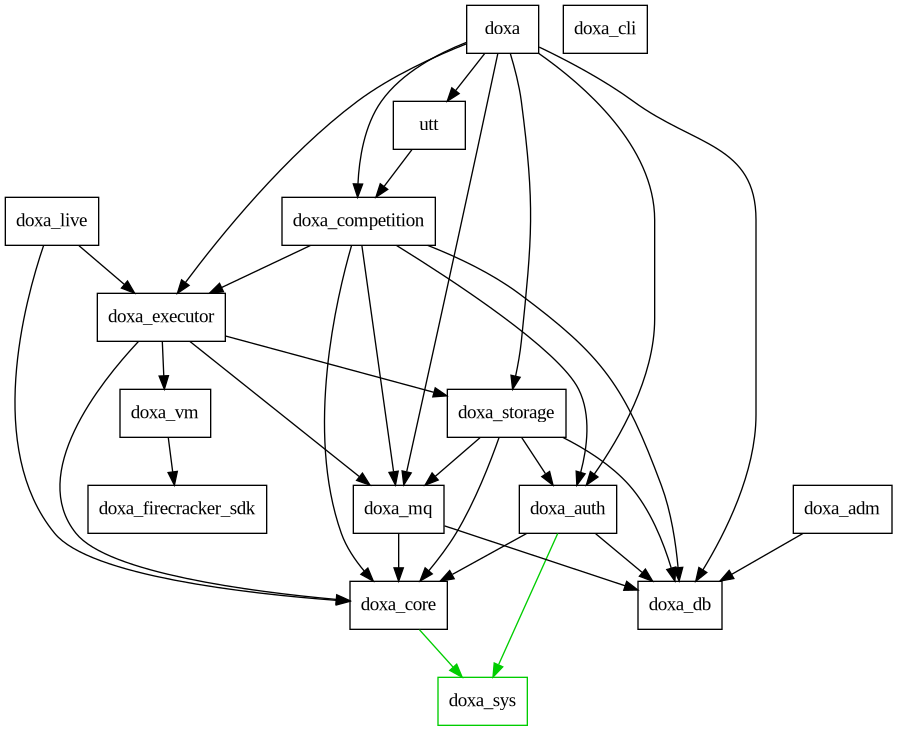
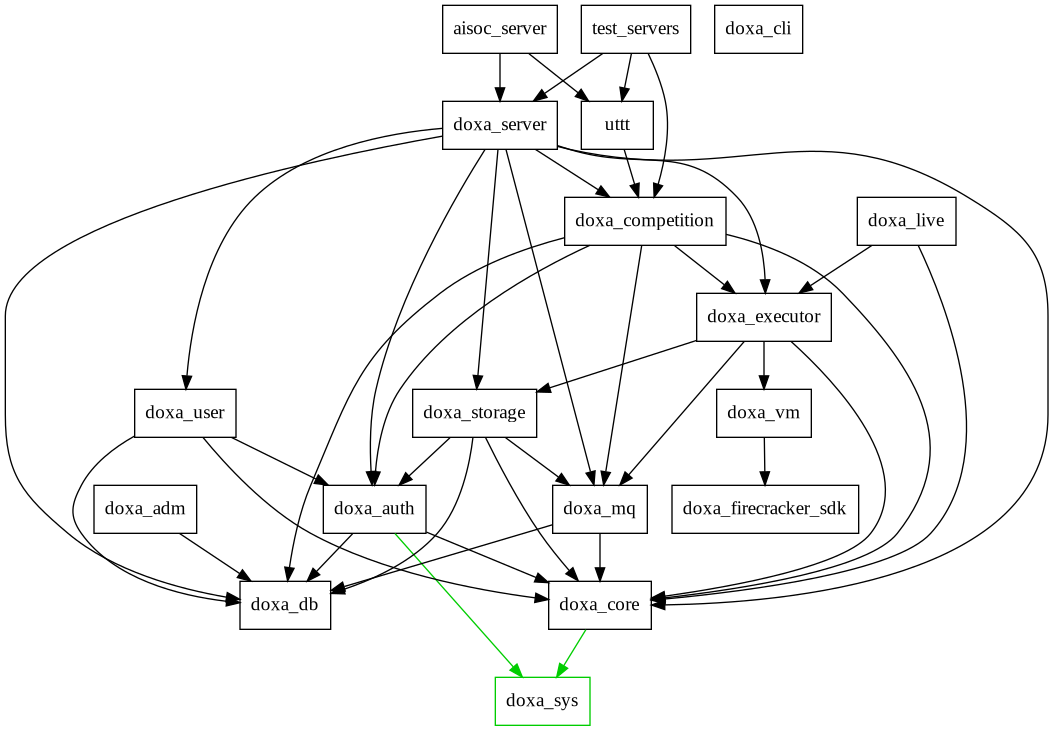
added doxa_user and updated cli for that

diff --git a/crates/doxa_auth/src/route.rs b/crates/doxa_auth/src/route.rs
@@ -5,12 +5,11 @@ use doxa_db::{action, serde_json, PgPool};
 use crate::{
     controller,
     error::{InviteNotFound, RegistrationDisabled, TooManyLoginAttempts},
-    guard::AuthGuard,
     limits::AuthLimits,
     Settings,
 };
 
-use self::response::{InviteInfo, UserInfo};
+use self::response::InviteInfo;
 
 mod request;
 mod response;
@@ -22,7 +21,6 @@ pub fn config(cfg: &mut web::ServiceConfig) {
             "/auth/invite/accept/{invite_id}",
             web::post().to(accept_invite),
         )
-        .route("/auth/info", web::post().to(info))
         .route("/auth/invite/info/{invite_id}", web::get().to(invite_info));
 }
 
@@ -52,18 +50,6 @@ async fn login(
     .await??;
 
     Ok(HttpResponse::Ok().json(response::Login { auth_token: token }))
-}
-
-async fn info(db_pool: web::Data<PgPool>, user: AuthGuard<()>) -> EndpointResult {
-    let conn = web::block(move || db_pool.get()).await??;
-
-    let user_id = user.id();
-    let user = web::block(move || doxa_db::action::user::get_user_by_id(&conn, user_id)).await??;
-
-    Ok(HttpResponse::Ok().json(UserInfo {
-        username: user.username,
-        admin: user.admin,
-    }))
 }
 
 async fn register(

diff --git a/crates/doxa_user/src/route.rs b/crates/doxa_user/src/route.rs
@@ -1,0 +1,36 @@
+use doxa_auth::guard::AuthGuard;
+use doxa_core::{actix_web::web, error::HttpResponse, EndpointResult};
+use doxa_db::PgPool;
+
+use self::response::UserInfo;
+
+mod response;
+
+pub fn config(cfg: &mut web::ServiceConfig) {
+    cfg.route("/user/info", web::post().to(info));
+}
+
+async fn info(db_pool: web::Data<PgPool>, user: AuthGuard<()>) -> EndpointResult {
+    let conn = web::block({
+        let db_pool = db_pool.clone();
+        move || db_pool.get()
+    })
+    .await??;
+
+    let user_id = user.id();
+    let user = web::block(move || doxa_db::action::user::get_user_by_id(&conn, user_id)).await??;
+
+    let conn = web::block(move || db_pool.get()).await??;
+    let competitions =
+        web::block(move || doxa_db::action::competition::list_user_enrollments(&conn, user_id))
+            .await??
+            .into_iter()
+            .map(|c| c.name)
+            .collect();
+
+    Ok(HttpResponse::Ok().json(UserInfo {
+        username: user.username,
+        admin: user.admin,
+        competitions,
+    }))
+}

diff --git a/crates/doxa_cli/src/command/auth.rs b/crates/doxa_cli/src/command/auth.rs
@@ -63,6 +63,7 @@ pub async fn info(settings: &Settings) -> Result<(), CommandError> {
     struct Info {
         username: String,
         admin: bool,
+        competitions: Vec<String>,
     }
 
     let total_steps = 2;
@@ -75,16 +76,18 @@ pub async fn info(settings: &Settings) -> Result<(), CommandError> {
         ),
     );
 
-    let info: Info = send_request_and_parse(post(settings, "auth/info", false)).await?;
+    let info: Info = send_request_and_parse(post(settings, "user/info", false)).await?;
 
     ui::print_step(1, total_steps, "Showing user information");
 
     println!(
-        "{}: `{}`\n{}: `{}`",
+        "{}: `{}`\n{}: `{}`\n{}: {}",
         ui::keyword("username"),
         ui::keyword(info.username),
         ui::keyword("admin"),
-        ui::keyword(info.admin)
+        ui::keyword(info.admin),
+        ui::keyword("competitions"),
+        ui::keyword(format!("{:?}", info.competitions))
     );
 
     Ok(())

diff --git a/crates/doxa_cli/src/cli.rs b/crates/doxa_cli/src/cli.rs
@@ -1,21 +1,26 @@
 //! The definitions for CLI argument parsing with `clap`
 
-use clap::{Parser, Subcommand};
+use clap::{crate_version, AppSettings, Parser, Subcommand};
 
 use crate::command::{agent::AgentCommands, auth::AuthCommands};
 
 #[derive(Parser)]
+#[clap(global_setting(AppSettings::PropagateVersion))]
+#[clap(version(crate_version!()))]
 pub struct Cli {
     #[clap(subcommand)]
     pub command: MainCommands,
     #[clap(short, long, global = true)]
+    /// Prints more information (useful for debugging)
     pub verbose: bool,
 }
 
 #[derive(Subcommand)]
 pub enum MainCommands {
     #[clap(subcommand)]
+    /// Commands for logging in, registering and other user actions
     User(AuthCommands),
     #[clap(subcommand)]
+    /// Commands for using agents
     Agent(AgentCommands),
 }

diff --git a/crates/doxa_auth/src/route/response.rs b/crates/doxa_auth/src/route/response.rs
@@ -2,19 +2,13 @@ use doxa_core::chrono::{DateTime, Utc};
 use serde::Serialize;
 
 #[derive(Serialize)]
-pub struct Login {
+pub(crate) struct Login {
     pub auth_token: String,
 }
 
 #[derive(Serialize)]
-pub struct InviteInfo {
+pub(crate) struct InviteInfo {
     pub username: Option<String>,
     pub expires_at: Option<DateTime<Utc>>,
     pub enrollments: Vec<String>,
-}
-
-#[derive(Serialize)]
-pub struct UserInfo {
-    pub username: String,
-    pub admin: bool,
 }

diff --git a/crates/doxa_server/src/lib.rs b/crates/doxa_server/src/lib.rs
@@ -124,6 +124,7 @@ pub async fn setup_server(
                     web::scope("")
                         .configure(doxa_auth::config(auth_settings.clone()))
                         .configure(doxa_storage::config(storage_settings.clone()))
+                        .configure(doxa_user::config())
                         .configure(configure_competition_routes.clone()),
                 ),
             )

diff --git a/crates/doxa_user/src/lib.rs b/crates/doxa_user/src/lib.rs
@@ -1,0 +1,9 @@
+use doxa_core::actix_web;
+
+mod route;
+
+pub fn config() -> impl FnOnce(&mut actix_web::web::ServiceConfig) {
+    move |cfg| {
+        route::config(cfg);
+    }
+}

diff --git a/crates/doxa_user/src/route/response.rs b/crates/doxa_user/src/route/response.rs
@@ -1,0 +1,8 @@
+use serde::Serialize;
+
+#[derive(Serialize)]
+pub struct UserInfo {
+    pub username: String,
+    pub admin: bool,
+    pub competitions: Vec<String>,
+}

diff --git a/README.md b/README.md
@@ -46,6 +46,10 @@ DOXA (the backend server) is made up of several components (crates) which can be
 The root crate. This is an example implementation of the components of DOXA into a server. This is the current deployment for the UCL AI Society. In future this will be moved out of this crate, especially once the boilerplate for creating a DOXA server is reduced.
 
 
+### `doxa_server`
+
+Provides useful methods to easily setup a new deployment of DOXA.
+
 
 ### `utt`
 
@@ -69,6 +73,10 @@ Contains common trait definitions particularly with regards to error handling. F
 
 Provides HTTP routes and common util code for authenticating users.
 
+
+### `doxa_user`
+
+Provides HTTP routes endpoints useful to managing users.
 
 
 ### `doxa_storage`
@@ -128,3 +136,4 @@ Provides the definition of a `Competition` trait that can be implemented. This a
 ### `doxa_live` 🚧
 
 This is a WIP component which should allow for users to play against a particular agent using a websocket.
+
